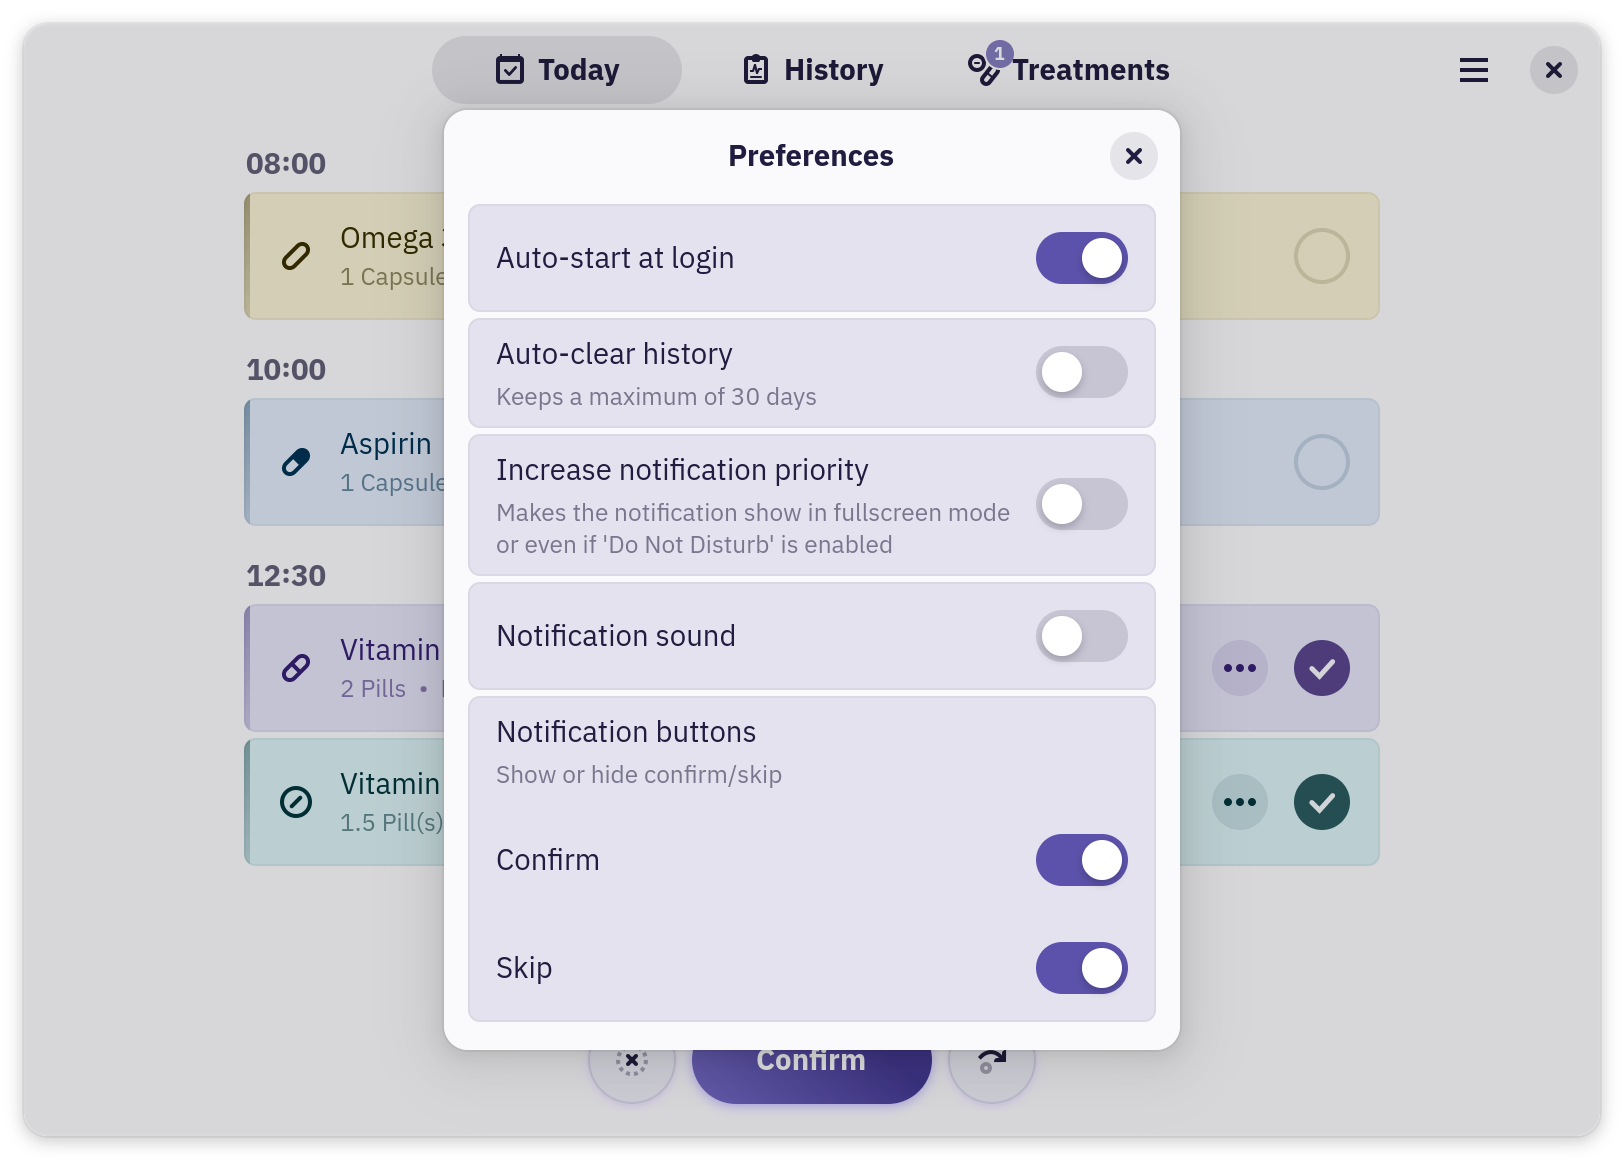
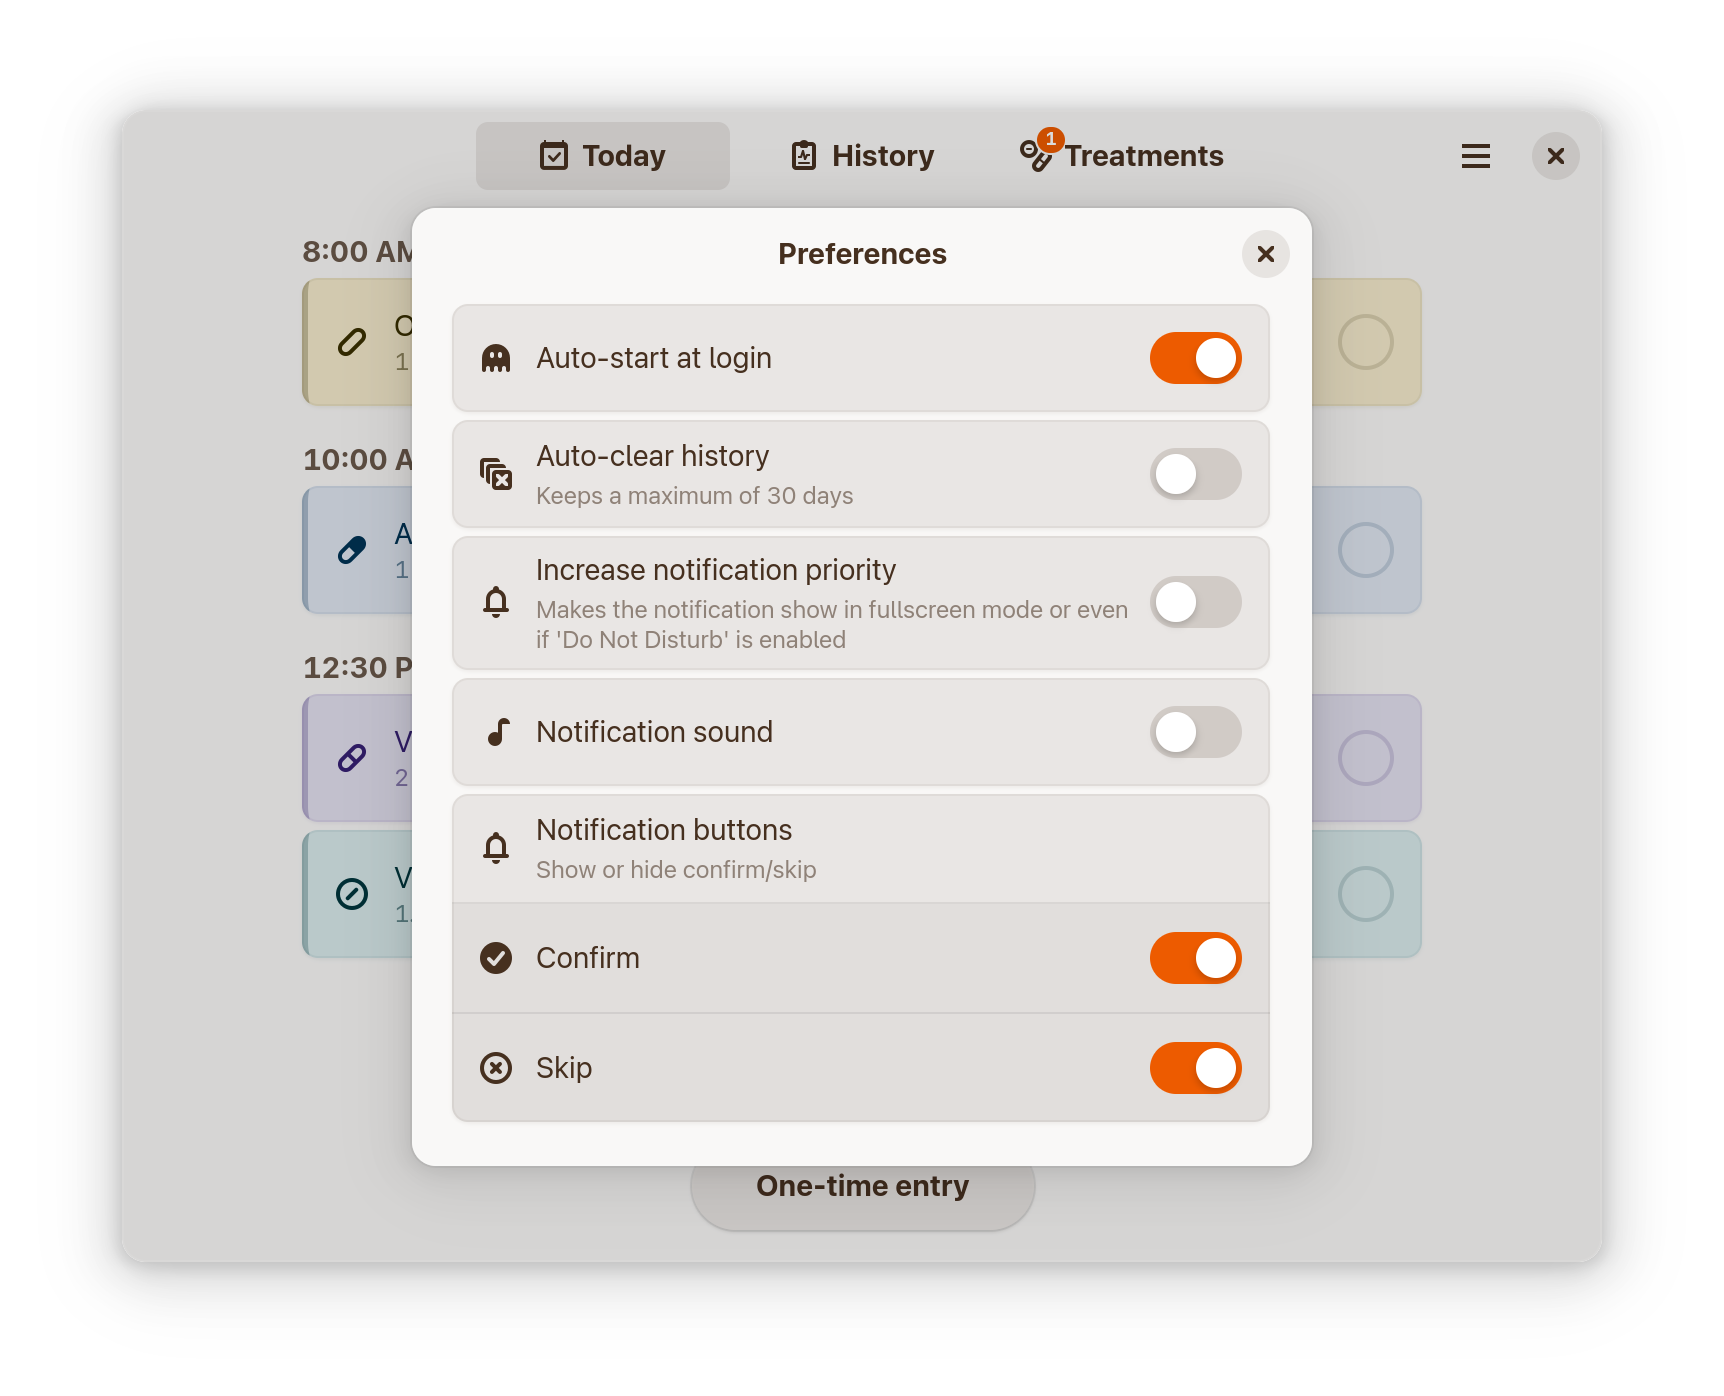
chore: update screenshots

diff --git a/README.md b/README.md
@@ -26,7 +26,7 @@ Keep track of your treatments
   <details>
     <summary>Other screenshots</summary><br>
       <p align="center"><img src="https://raw.githubusercontent.com/diegopvlk/Dosage/main/screenshots/preferences.png"/></p>
-      <p align="center"><img style="height:700px;" src="https://raw.githubusercontent.com/diegopvlk/Dosage/main/screenshots/med-window.png"/></p>
+      <p align="center"><img style="height:700px;" src="https://raw.githubusercontent.com/diegopvlk/Dosage/main/screenshots/med-dialog-bigger.png"/></p>
       <p align="center"><img src="https://raw.githubusercontent.com/diegopvlk/Dosage/main/screenshots/today-dark.png"/></p>
   </details>
 </div>
